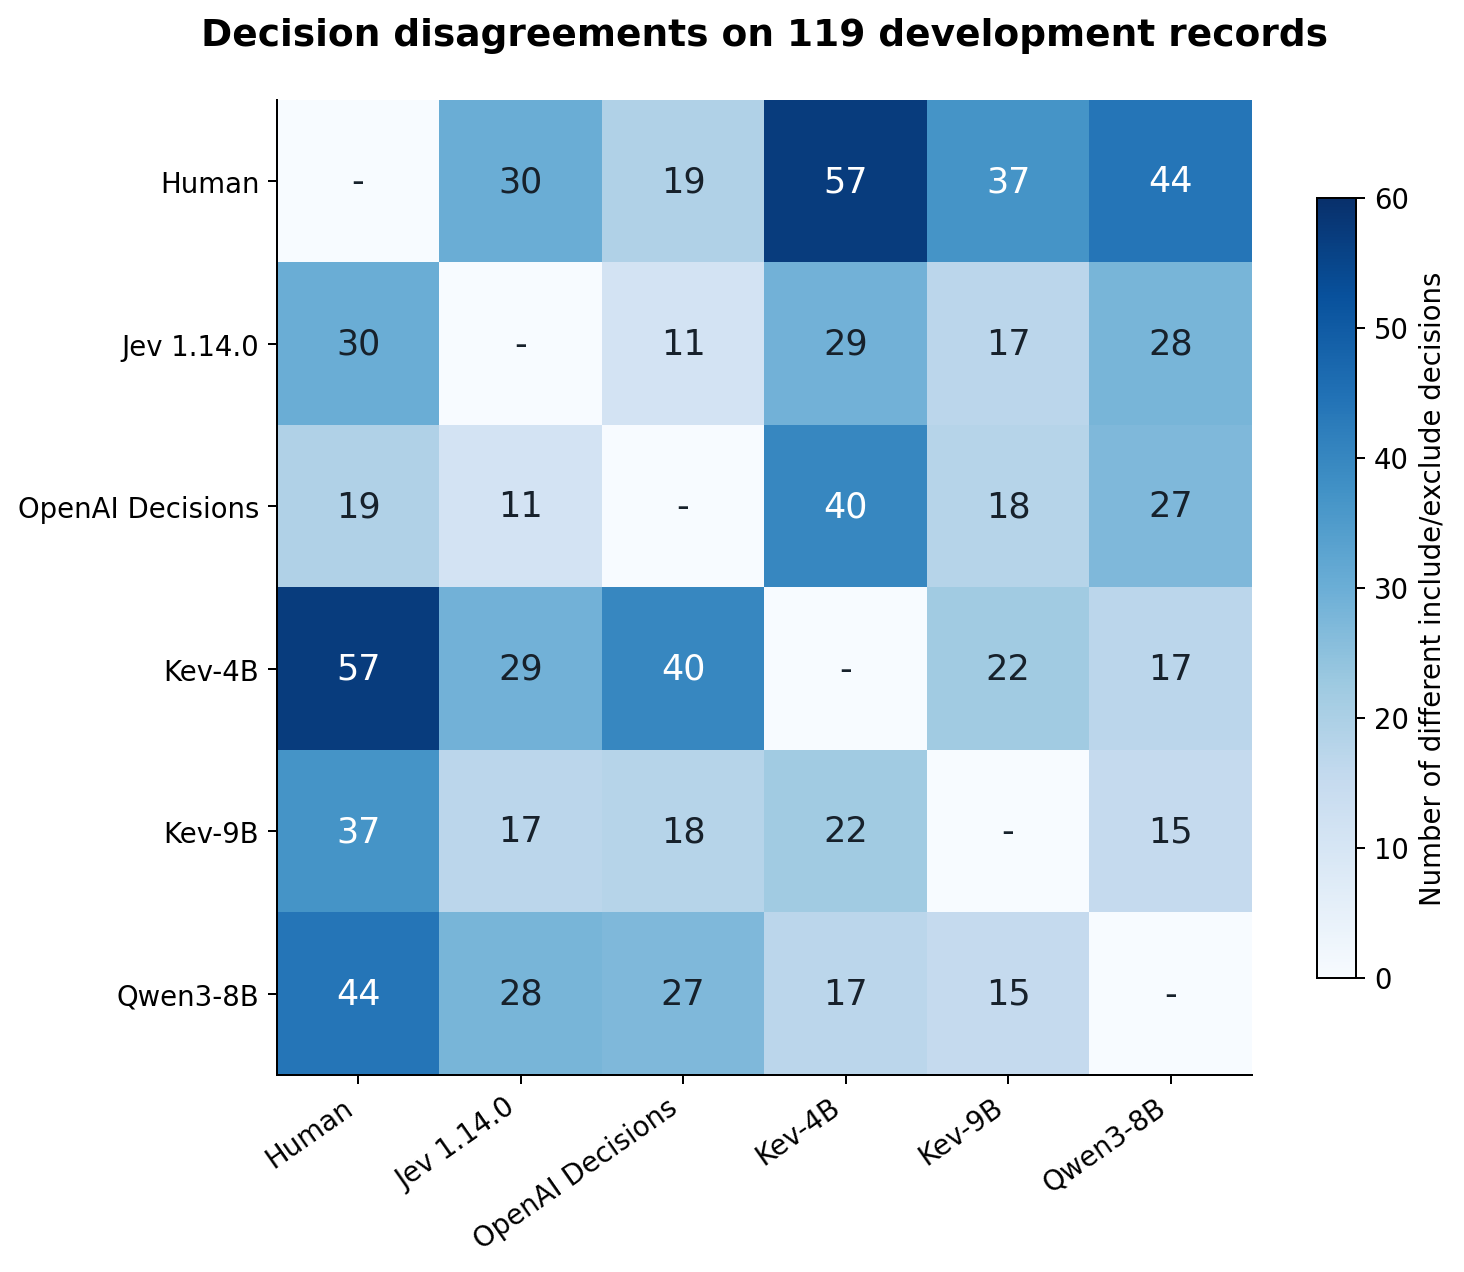
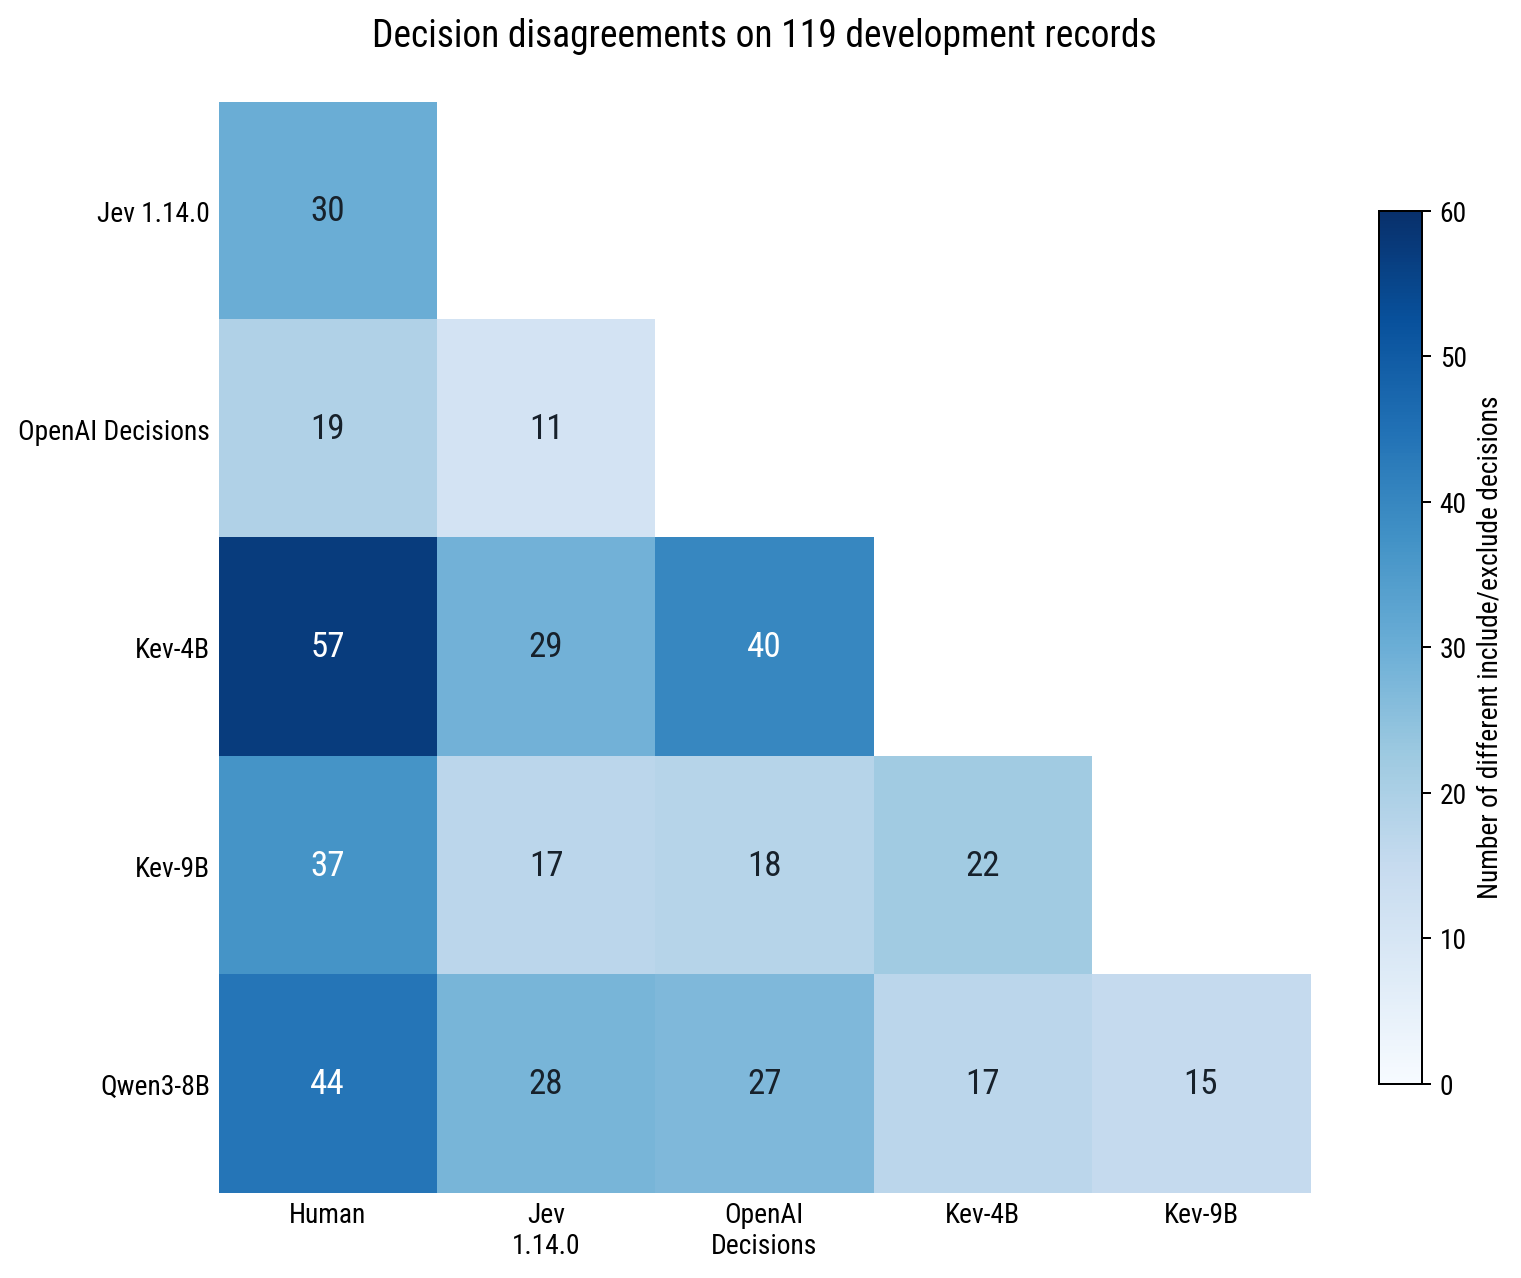
Refine development comparison plot layout and style

diff --git a/2_screening/benchmark/compare_development.py b/2_screening/benchmark/compare_development.py
@@ -12,6 +12,7 @@ import matplotlib
 
 matplotlib.use("Agg")
 import matplotlib.pyplot as plt
+from matplotlib import font_manager
 import numpy as np
 
 from run_development import decision_from
@@ -132,19 +133,25 @@ for rid in sorted(labels, key=int):
     json.dumps(comparison, indent=2, ensure_ascii=False) + "\n"
 )
 
+# Refresh installed fonts so a newly installed font does not require a cache reset.
+for font_path in font_manager.findSystemFonts():
+    if "robotocondensed" in Path(font_path).name.lower().replace("-", ""):
+        font_manager.fontManager.addfont(font_path)
+font_manager.findfont("Roboto Condensed", fallback_to_default=False)
+
 plt.rcParams.update(
     {
-        "font.family": "DejaVu Sans",
+        "font.family": "Roboto Condensed",
         "font.size": 11,
         "axes.spines.top": False,
         "axes.spines.right": False,
     }
 )
-colors = ["#0072B2", "#009E73", "#E69F00", "#CC79A7", "#6B5BA6"]
+colors = dict(zip(names, ["#0072B2", "#009E73", "#E69F00", "#CC79A7", "#D55E00"]))
 y = np.arange(5)
 fig, axes = plt.subplots(2, 2, figsize=(14, 8.5))
 fig.subplots_adjust(
-    left=0.16, right=0.95, bottom=0.12, top=0.84, wspace=1.05, hspace=0.48
+    left=0.16, right=0.95, bottom=0.12, top=0.84, wspace=0.55, hspace=0.48
 )
 fig.suptitle(
     "Five models on 119 development records",
@@ -166,24 +173,27 @@ for ax, field, title in zip(
     ["recall", "false_exclusions", "precision", "retained_fraction"],
     ["Recall", "False exclusions", "Inclusion precision", "Retained fraction"],
 ):
-    values = [metrics[key][field] for key in names]
+    ordered = sorted(names, key=lambda key: metrics[key][field], reverse=True)
+    values = [metrics[key][field] for key in ordered]
     scale = 1 if field == "false_exclusions" else 100
-    ax.barh(y, np.array(values) * scale, color=colors, height=0.55, alpha=0.88)
-    ax.set_yticks(y, names.values())
-    ax.invert_yaxis()
+    ax.barh(
+        y, np.array(values) * scale, color=[colors[key] for key in ordered], height=0.55
+    )
+    ax.set_yticks(y, [names[key] for key in ordered])
+    ax.set_ylim(4.6, -0.6)
     ax.set_title(title, loc="left", fontsize=13, weight="bold", pad=12)
     ax.set_axisbelow(True)
     ax.grid(axis="x", alpha=0.17)
     ax.spines["left"].set_visible(False)
     ax.tick_params(axis="y", length=0)
-    ax.set_xlim(0, 12 if field == "false_exclusions" else 100)
+    ax.set_xlim(0, 12 if field == "false_exclusions" else 115)
     ax.set_xticks(
         [0, 3, 6, 9, 12] if field == "false_exclusions" else [0, 25, 50, 75, 100]
     )
     ax.set_xlabel(
         "Count out of 12 human inclusions" if field == "false_exclusions" else "Percent"
     )
-    for index, key in enumerate(names):
+    for index, key in enumerate(ordered):
         m = metrics[key]
         count = {
             "recall": f"{m['true_inclusions']}/12",
@@ -191,9 +201,16 @@ for ax, field, title in zip(
             "precision": f"{m['true_inclusions']}/{m['retained']}",
             "retained_fraction": f"{m['retained']}/119",
         }[field]
-        text = (
-            count if field == "false_exclusions" else f"{m[field]*100:.1f}% ({count})"
-        )
+        text = count if field == "false_exclusions" else f"({count})"
+        if field != "false_exclusions":
+            ax.annotate(
+                f"{m[field]*100:.1f}%",
+                (m[field] * 100, index),
+                xytext=(4, 0),
+                textcoords="offset points",
+                va="center",
+                fontsize=10,
+            )
         ax.text(
             1.02,
             index,
@@ -224,9 +241,17 @@ assert all(
     for index, key in enumerate(names)
 )
 fig, ax = plt.subplots(figsize=(9, 7.2))
-heat = ax.imshow(matrix, cmap="Blues", vmin=0, vmax=60)
-ax.set_xticks(range(6), raters.keys(), rotation=35, ha="right")
-ax.set_yticks(range(6), raters.keys())
+masked = np.ma.masked_where(np.triu(np.ones_like(matrix, dtype=bool)), matrix)
+heat = ax.imshow(masked, cmap="Blues", vmin=0, vmax=60)
+ax.set_xticks(
+    range(5),
+    ["Human", "Jev\n1.14.0", "OpenAI\nDecisions", "Kev-4B", "Kev-9B"],
+)
+ax.spines[["left", "bottom"]].set_visible(False)
+ax.tick_params(length=0)
+ax.set_yticks(range(1, 6), list(raters)[1:])
+ax.set_xlim(-0.5, 4.5)
+ax.set_ylim(5.5, 0.5)
 ax.set_title(
     "Decision disagreements on 119 development records",
     fontsize=15,
@@ -234,10 +259,12 @@ ax.set_title(
     pad=22,
 )
 for i, j in np.ndindex(matrix.shape):
+    if j >= i:
+        continue
     ax.text(
         j,
         i,
-        "-" if i == j else str(matrix[i, j]),
+        str(matrix[i, j]),
         ha="center",
         va="center",
         fontsize=14,

diff --git a/2_screening/benchmark/README.md b/2_screening/benchmark/README.md
@@ -146,6 +146,9 @@ runs do not keep extra logs or duplicate input files.
 
 ## Split and evaluation
 
+Install [Roboto Condensed](https://fonts.google.com/specimen/Roboto+Condensed)
+as a user font before generating plots. The script requires this font.
+
 Compare all five saved development runs for one date without making requests:
 
 ```sh
